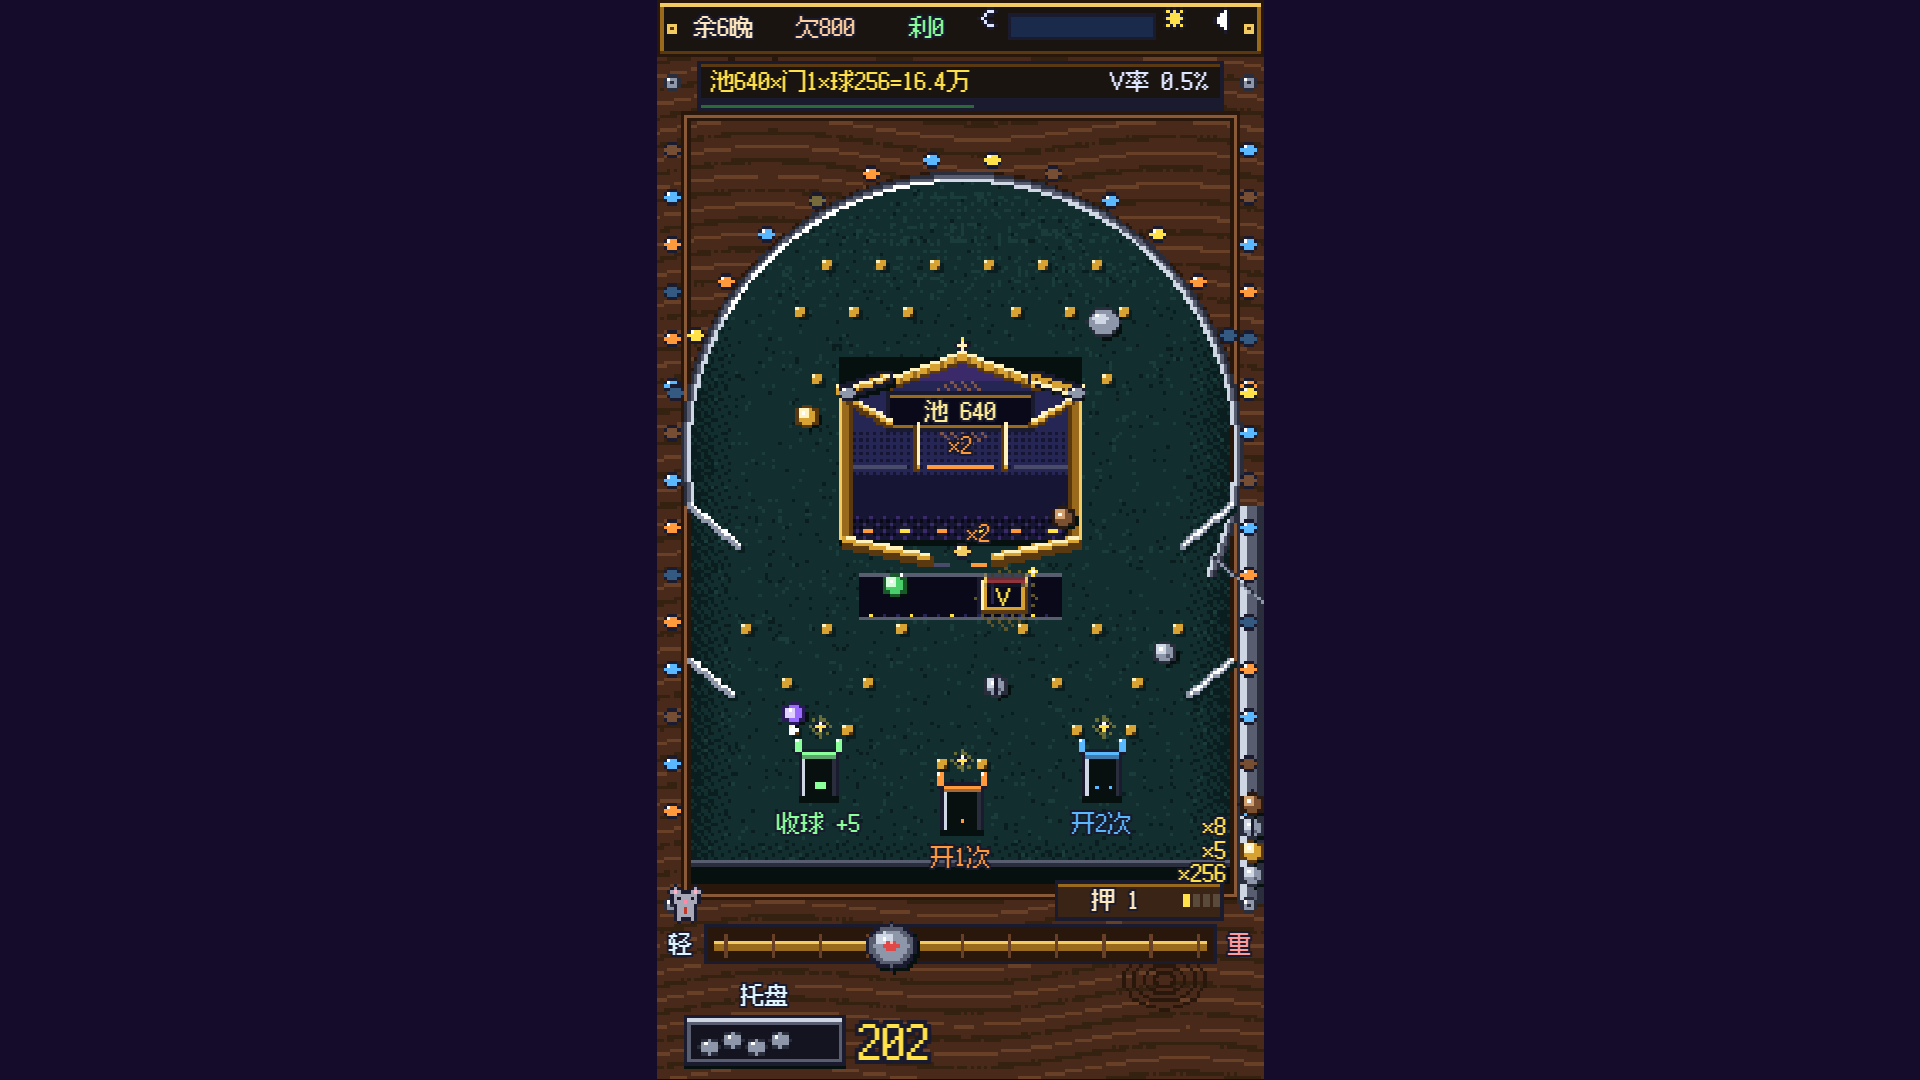
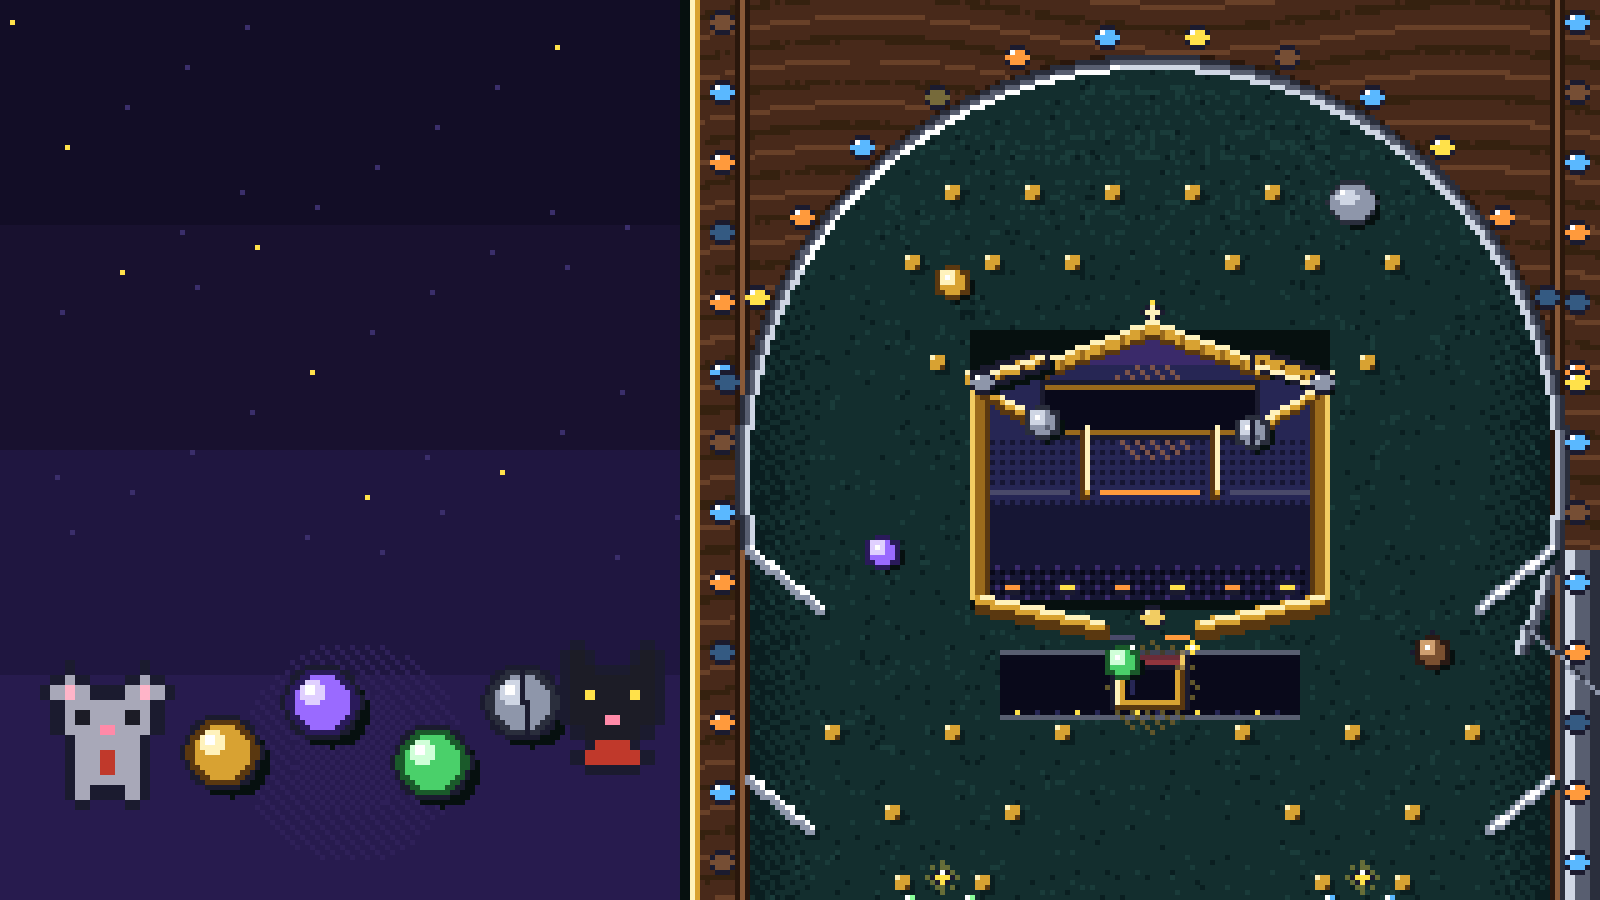
说明改成大白话、横版封面
- 每种球的说明重写成完整的大白话（不再用「赔」「得分」「进台」这类行话）
- 商店改成三行横卡，顶上写清楚「球身上的数字」和「好球会裂」两条规则
- 图鉴点开一种球看完整说明
- 横版封面 1600x900（#cover 带标题，#coverbase 无字底图），由游戏自己画

diff --git a/index.html b/index.html
@@ -11,13 +11,13 @@
 <meta property="og:description" content="配一袋会裂的钢珠，每颗球身上带一个数，翻倍球能把它滚到上千；进 V 杯就把池子乘上球的数全倒给你。六晚内还清黑猫的借据。">
 <meta property="og:url" content="https://grrreymane.github.io/HanePachinko/">
 <meta property="og:image" content="https://grrreymane.github.io/HanePachinko/cover.png">
-<meta property="og:image:width" content="1920">
-<meta property="og:image:height" content="1080">
+<meta property="og:image:width" content="1600">
+<meta property="og:image:height" content="900">
 <meta name="twitter:card" content="summary_large_image">
 <meta name="twitter:image" content="https://grrreymane.github.io/HanePachinko/cover.png">
 <!-- font:start (generated by _workflow/tools/subset_font.py; rerun after text changes) -->
-<link rel="preload" href="fonts/pixel.woff2?v=70d667a0" as="font" type="font/woff2" crossorigin>
-<style> @font-face { font-family: "Fusion Pixel"; src: url("fonts/pixel.woff2?v=70d667a0") format("woff2"); font-display: swap; }</style>
+<link rel="preload" href="fonts/pixel.woff2?v=e206db64" as="font" type="font/woff2" crossorigin>
+<style> @font-face { font-family: "Fusion Pixel"; src: url("fonts/pixel.woff2?v=e206db64") format("woff2"); font-display: swap; }</style>
 <!-- font:end -->
 <style>
   :root { --ground: #140c2a; color-scheme: dark; }
@@ -339,7 +339,7 @@ function achieve(id) {
 const tut = k => META.tut && META.tut[k], learn = k => { (META.tut = META.tut || {})[k] = 1; save('meta', META); };
 const betOpen = () => night >= 2 || stage > 1 || tut('bet');   // the stake dial is the second night's new thing
 const owned = () => PRIZES.reduce((n, z) => n + lvl(z.id), 0), prizeCost = z => Math.round(z.price[Math.min(lvl(z.id), z.max - 1)] * (1 + .5 * owned()) / 10) * 10;   // each prize taken makes every other one half again dearer
-let eqFlash = 0, tileFlash = { i: -1, t: 0 }, selPrize = -1;
+let eqFlash = 0, tileFlash = { i: -1, t: 0 }, selPrize = -1, dexSel = -1;
 const markSeen = k => { if (!META.seen) META.seen = {}; if (!META.seen[k]) { META.seen[k] = 1; save('meta', META); } };
 const EQ_MAX = 3; if (!Array.isArray(META.eq)) META.eq = PRIZES.filter(z => lvl(z.id)).map(z => z.id).slice(0, EQ_MAX);   // an old save equips what it owns
 const eqd = id => META.eq.includes(id);   // only equipped mechanisms are on the machine
@@ -413,7 +413,7 @@ const PAY_STAGE = 1, PAY_V = 5, PAY_FEVER = 4, FEVER_OPENS = 12, FEVER_CATCH = 6
 // every loan feeds it, it survives game over, and a ball in the V cup pours it all into the tray.
 const IOU_NIGHTS = 6, DEBT0 = 800, RATE = .04, LOAN0 = 100, LOAN_GROW = 1.5, LOANS_MAX = 3, POT0 = 30, POT_BASE = 30;
 const interestOf = d => Math.ceil(d * RATE);
-const BTN = { start: [40, 190, 100, 22], again: [40, 236, 100, 22], close: [118, 298, 50, 18], go: [50, 202, 80, 20], reroll: [10, 228, 36, 20], dawn: [50, 230, 80, 18], ok: [50, 206, 80, 20], buy: [50, 228, 80, 20], leave: [28, 236, 58, 20], next: [94, 236, 58, 20], counter: [10, 160, 52, 18], ach: [64, 160, 52, 18], dex: [118, 160, 52, 18], bet: [118, 261, 50, 12], toss: [134, 228, 36, 20], done: [50, 250, 80, 18] };
+const BTN = { start: [40, 190, 100, 22], again: [40, 236, 100, 22], close: [118, 298, 50, 18], go: [50, 202, 80, 20], reroll: [10, 252, 36, 18], dawn: [50, 230, 80, 18], ok: [50, 206, 80, 20], buy: [50, 252, 80, 18], leave: [28, 236, 58, 20], next: [94, 236, 58, 20], counter: [10, 160, 52, 18], ach: [64, 160, 52, 18], dex: [118, 160, 52, 18], bet: [118, 261, 50, 12], toss: [134, 252, 36, 18], done: [50, 250, 80, 18] };
 const FIRE_Y = 264;                                   // the handle: hold below this line to fire, finger x = strength
 
 // ---- static bodies
@@ -585,16 +585,16 @@ const LAUNCH = [], balls = [], wing = { open: false, t: 0, cd: 0, queue: 0, pend
 // 球袋: the run's build. Every shot draws the next ball from a shuffled pile of the bag; when fewer than five are left a fresh shuffle
 // of the whole bag goes underneath, so the tube can always show what is coming. A ball you add makes every other special ball rarer.
 const BALLS = {   // d1 the upside, d2 the price (drawn red); w: how much the black cat wants it
-  plain: { name: '普通球', d1: '什么都不加', d2: '' },
-  gold: { name: '金球', d1: '得分后 +1', d2: '掉沟裂两道', cost: 10, fragile: 2, w: 3 },
-  split: { name: '分裂球', d1: '一分二分四', d2: '分开数减半', cost: 8, w: 2 },
-  lucky: { name: '幸运球', d1: '进台吸向V', d2: '进口子不开', cost: 15, noWing: true, w: 4 },
-  gate: { name: '翻倍球', d1: '最大的球×2', d2: '自己不赔', cost: 12, pm: 0, w: 5 },
-  big: { name: '大球', d1: '赢的 ×3', d2: '进不了口子', cost: 10, pm: 3, w: 3 },
-  wreck: { name: '破坏球', d1: '撞碎钉子', d2: '撞钉自己裂', cost: 10, w: 2 },
-  bomb: { name: '爆池球', d1: '掉沟漏池5%', d2: '进口子不赔', cost: 6, pm: 0, noWing: true, w: 1 },
-  wing: { name: '开门球', d1: '羽根开3次', d2: '自己不赔', cost: 8, pm: 0, w: 2 },
-  lead: { name: '铅球', d1: '庄家塞的', d2: '什么都不赔', pm: 0, noWing: true },
+  plain: { name: '普通球', d1: '最普通的钢珠，进洞给你 1 份球', d2: '' },
+  gold: { name: '金球', d1: '每进一次洞，它身上的数字 +1，越打越值钱', d2: '掉进最下面的水沟时，一次裂两道', cost: 10, fragile: 2, w: 3 },
+  split: { name: '分裂球', d1: '碰到钉子会分成两颗，再碰再分，最多四颗', d2: '每分一次，每颗身上的数字减半', cost: 8, w: 2 },
+  lucky: { name: '幸运球', d1: '掉进台子后被 V 杯吸过去，杯盖也会为它打开', d2: '进下面的口子时，不会打开羽根', cost: 15, noWing: true, w: 4 },
+  gate: { name: '翻倍球', d1: '每进一次洞，把袋里数字最大的那颗球翻倍', d2: '它自己进洞时不给你球', cost: 12, pm: 0, w: 5 },
+  big: { name: '大球', d1: '进洞给的球是普通球的 3 倍', d2: '个头太大，塞不进下面的三个口子', cost: 10, pm: 3, w: 3 },
+  wreck: { name: '破坏球', d1: '撞到的钉子会碎掉，红钉和死穴碎了就不回来', d2: '每撞碎一根钉，自己裂一道', cost: 10, w: 2 },
+  bomb: { name: '爆池球', d1: '掉进水沟时炸开，把池子里 5% 的球分给你', d2: '进口子时不给球，也不打开羽根', cost: 6, pm: 0, noWing: true, w: 1 },
+  wing: { name: '开门球', d1: '进任何口子，羽根都连开 3 次', d2: '它自己进洞时不给你球', cost: 8, pm: 0, w: 2 },
+  lead: { name: '铅球', d1: '黑猫偷偷塞进你袋子的废球', d2: '打出去不管进哪都不给球，只占一个位置', pm: 0, noWing: true },
 };
 const FIELDS = {   // one per night from the third: what it does to which balls
   calm: { name: '平常夜', d: '没什么特别', c: '#dfe6ff' },
@@ -765,7 +765,13 @@ Events.on(engine, 'collisionStart', ev => {
 // ---- input
 function onPress(p) {
   if (state === 'title') { if (inR(p, BTN.start)) { SFX.click(); resetRun(); } else if (inR(p, BTN.counter)) { SFX.click(); go('counter'); } else if (inR(p, BTN.ach)) { SFX.click(); go('ach'); } else if (inR(p, BTN.dex)) { SFX.click(); go('dex'); } return; }
-  if (state === 'ach' || state === 'dex') { if (inR(p, BTN.done)) { SFX.click(); go('title'); } return; }
+  if (state === 'dex') {   // tap a card to read it, tap again anywhere to close
+    if (dexSel >= 0) { dexSel = -1; SFX.click(); return; }
+    if (inR(p, BTN.done)) { SFX.click(); go('title'); return; }
+    Object.keys(BALLS).forEach((k, i) => { const x = 10 + (i % 2) * 82, y = 56 + Math.floor(i / 2) * 38; if (p.x >= x && p.x <= x + 78 && p.y >= y && p.y <= y + 35 && (k === 'plain' || (META.seen && META.seen[k]))) { dexSel = i; SFX.click(); } });
+    return;
+  }
+  if (state === 'ach') { if (inR(p, BTN.done)) { SFX.click(); go('title'); } return; }
   if (state === 'counter') { if (inR(p, BTN.done)) { SFX.click(); go('title'); return; } for (let i = 0; i < EQ_MAX; i++) { const [x, y] = sockXY(i); if (Math.abs(p.x - x) < 13 && Math.abs(p.y - y) < 13 && META.eq[i]) { selPrize = PRIZES.findIndex(z => z.id === META.eq[i]); toggleEq(PRIZES[selPrize]); return; } }   // tap a socket: take it off
     PRIZES.forEach((z, i) => { const [x, y] = tileXY(i); if (Math.abs(p.x - x) < 14 && Math.abs(p.y - y) < 12) { if (!lvl(z.id) && selPrize !== i) { selPrize = i; SFX.click(); } else { selPrize = i; toggleEq(z); } } }); return; }   // not owned: the first tap previews it, the second buys
   if (state === 'over') { if (inR(p, BTN.again)) { SFX.click(); resetRun(); } return; }
@@ -813,7 +819,7 @@ window.addEventListener('keydown', e => {
   if (state === 'play' && betOpen()) { if (e.code === 'ArrowUp') cycleBet(1); if (e.code === 'ArrowDown') cycleBet(-1); }
 });
 window.addEventListener('keyup', e => { if (e.code === 'Space') firing = false; });
-function cardRect(i) { return [14 + i * 52, 114, 48, 100]; }
+function cardRect(i) { return [10, 84 + i * 53, 160, 51]; }   // the shop: three wide rows
 function applyPick(p) {   // one ball a night: it replaces a plain ball, or one you pick when none is left
   const i = picks.indexOf(p), r = cardRect(i);
   if (tray < costOf(p)) { SFX.fail(); pop('球不够', r[0] + r[2] / 2, r[1] + 50, '#ff6a6a', 8, .8); return; }
@@ -998,16 +1004,16 @@ function ballK(x, y, k, cr) {   // a ball drawn by kind: steel, steel with a cra
   if (k === 'lucky' && T % .5 < .25) { g.fillStyle = '#ffffff'; g.fillRect(R(x) + 2, R(y) - 3, 1, 1); }
   cracks(x, y, cr);
 }
-function bigBall(x, y, k, cr, v) {   // the shop card's ball
+function bigBall(x, y, k, cr, v, bare) {   // bare: no corner badge (the shop rows put text right next to the ball)   // the shop card's ball
   const c = BCOL[k] || [PAL.chrome[0], PAL.chrome[2], PAL.chrome[3]];
   disc(x + 2, y + 2, 7, '#06100f'); disc(x, y, 7.6, OUT); disc(x, y, 6.6, c[0]); disc(x, y, 5.3, c[1]); disc(x - 2, y - 2, 2.4, c[2]); if (k !== 'lead') { g.fillStyle = '#ffffff'; g.fillRect(R(x) - 3, R(y) - 3, 2, 2); }
   if (k === 'split') pxLine(x, y - 6, x + 1, y + 6, 1, OUT);
   if (k === 'bomb') { pxLine(x + 3, y - 6, x + 5, y - 10, 1, '#c9b37a'); g.fillStyle = T % .3 < .15 ? '#ffe14a' : '#ff6a3c'; g.fillRect(R(x) + 5, R(y) - 11, 2, 2); }
-  if (k === 'gate') txt('倍', x + 11, y - 8, 7, '#ffe14a', 'center', OUT);
+  if (k === 'gate' && !bare) txt('倍', x + 11, y - 8, 7, '#ffe14a', 'center', OUT);
   if (k === 'wing') wingIcon(x + 6, y + 8, 8, true);
   if (k === 'lucky') txt('V', x, y + 1, 7, '#ffffff', 'center', OUT);
   if (cr) { pxLine(x - 4, y - 5, x - 1, y, 1, OUT); if (cr >= 3) pxLine(x + 1, y - 2, x + 5, y + 3, 1, OUT); if (cr >= 6) pxLine(x - 5, y + 2, x - 1, y + 5, 1, '#ff5a5a'); }   // cracks
-  if (k === 'big') txt('大', x + 10, y - 8, 7, '#ffe14a', 'center', OUT);
+  if (k === 'big' && !bare) txt('大', x + 10, y - 8, 7, '#ffe14a', 'center', OUT);
   if (k === 'wreck') { g.fillStyle = OUT; for (const [dx, dy] of [[0, -9], [9, 0], [0, 8], [-9, 0]]) g.fillRect(R(x + dx) - 1, R(y + dy) - 1, 3, 3); }   // spikes
   if ((v || 1) > 1) txt('×' + fmt(v), x, y + 11, 7, '#c0392b', 'center', null);
 }
@@ -1162,6 +1168,17 @@ function drawHandle(active) {
   disc(kx + 1, ky + 1, 7, '#06100f'); disc(kx, ky, 7, OUT); disc(kx, ky, 6, active ? PAL.brass[2] : PAL.chrome[1]); disc(kx, ky, 4.6, active ? PAL.brass[3] : PAL.chrome[2]); disc(kx - 1.6, ky - 1.6, 2, active ? PAL.brass[4] : PAL.chrome[3]); g.fillStyle = '#ffffff'; g.fillRect(kx - 2, ky - 2, 1, 1); disc(kx, ky, 1.6, '#e04848'); g.fillStyle = '#ffb4b4'; g.fillRect(kx, ky - 1, 1, 1);
   txt('轻', 7, 280, 7, '#dff6ff'); txt('重', 173, 280, 7, '#ff9a9a');
 }
+function wrapTxt(t, x, y, w, size, col, lh) {   // left-aligned text wrapped to a width (a CJK character counts 1, ASCII about half); returns the line count
+  const lines = []; let cur = '', u = 0; const max = w / (size + 1);   // a glyph is about size + 1 px wide
+  for (const ch of t) { const cu = ch.charCodeAt(0) > 255 ? 1 : .55; if (u + cu > max && cur) { lines.push(cur); cur = ''; u = 0; } cur += ch; u += cu; }
+  if (cur) lines.push(cur); lines.forEach((l, i) => txt(l, x, y + i * lh, size, col, 'left', null)); return lines.length;
+}
+function cardRow(c, r) {   // a shop row: the ball, its name and price, what it does and what it costs you
+  const [x, y, w, h] = r; panel(x, y, w, h); bigBall(x + 14, y + h / 2, c.ball, 0, 1, true);
+  txt(c.name, x + 29, y + 9, 8, '#c0392b', 'left', null); txt(costOf(c) + ' 球', x + w - 4, y + 9, 8, tray >= costOf(c) ? '#2a6a3a' : '#c0392b', 'right', null);
+  const n = wrapTxt(c.d1, x + 29, y + 20, w - 32, 7, '#5a3a24', 9); if (c.d2) wrapTxt(c.d2, x + 29, y + 20 + n * 9, w - 32, 7, '#c0392b', 9);
+  if (tray < costOf(c)) { g.globalAlpha = .4; g.fillStyle = '#f6e3b4'; g.fillRect(x + 2, y + 2, w - 4, h - 4); g.globalAlpha = 1; }
+}
 function card(c, r) {
   const [x, y, w, h] = r; panel(x, y, w, h);
   txt(c.name, x + w / 2, y + 11, c.name.length > 5 ? 8 : 9, c.item ? '#2a5a9a' : c.up ? '#6a3a9a' : '#c0392b', 'center', null);
@@ -1263,10 +1280,11 @@ function render() {
     if (houseMark && st < 1.6) { g.globalAlpha = .5 + .5 * Math.sin(T * 10); disc(houseMark.x, houseMark.y, 7, '#ff6a6a'); g.globalAlpha = 1; }
     txt(houseMsg, 90, 280, 9, '#ff9a9a');
   } else if (state === 'pick') {
-    panel(6, 92, 168, 164); txt(buysTonight ? '再拿一张要 ×' + (1 + buysTonight) + ' 价' : '挑球放进袋子', 90, 101, 9, buysTonight ? '#c0392b' : '#5a3a24', 'center', null); { const f = FIELDS[nextField]; txt(nextField === 'calm' ? '明晚：平常夜' : '明晚 ' + f.name + '：' + f.d, 90, 110, 7, '#6a3a9a', 'center', null); } bagStrip(90, 221);
-    picks.forEach((c, i) => card(c, cardRect(i))); button(BTN.buy, '开打'); button(BTN.reroll, '重摇 ' + rerollCost()); button(BTN.toss, '洗铅 ' + tossCost());
+    panel(6, 40, 168, 234); txt(buysTonight ? '再拿一张要 ×' + (1 + buysTonight) + ' 价' : '挑球放进袋子', 90, 49, 9, buysTonight ? '#c0392b' : '#5a3a24', 'center', null); { const f = FIELDS[nextField]; txt(nextField === 'calm' ? '明晚：平常夜' : '明晚 ' + f.name + '：' + f.d, 90, 59, 7, '#6a3a9a', 'center', null); } txt('球身上的数字越大，进洞给的球越多', 90, 69, 7, '#5a3a24', 'center', null);
+    txt('好球掉进水沟会裂，裂满 ' + LIFE + ' 道变回普通球', 90, 78, 7, '#8a6a4a', 'center', null); bagStrip(90, 245);
+    picks.forEach((c, i) => cardRow(c, cardRect(i))); button(BTN.buy, '开打'); button(BTN.reroll, '重摇 ' + rerollCost()); button(BTN.toss, '洗铅 ' + tossCost());
   } else if (state === 'discard') {
-    panel(6, 92, 168, 164); txt('袋子满了：点一颗换成' + (swapPick ? swapPick.name : ''), 90, 103, 8, '#5a3a24', 'center', null);
+    panel(6, 92, 168, 180); txt('袋子满了：点一颗换成' + (swapPick ? swapPick.name : ''), 90, 103, 8, '#5a3a24', 'center', null);
     BAG.forEach((o, i) => { const [x, y] = bagXY(i); bigBall(x, y, o.k, o.cr, o.v); }); button(BTN.buy, '算了');
   } else if (state === 'swap') {
     for (const m of PLACED) { g.fillStyle = '#ff9a3c'; g.globalAlpha = .55 + .35 * Math.sin(T * 6); g.fillRect(m.x - 10, m.y - 10, 20, 1); g.fillRect(m.x - 10, m.y + 9, 20, 1); g.fillRect(m.x - 10, m.y - 10, 1, 20); g.fillRect(m.x + 9, m.y - 10, 1, 20); g.globalAlpha = 1; }
@@ -1311,14 +1329,22 @@ function render() {
     button(BTN.done, '走了');
   } else if (state === 'dex') {   // the ball dex: a card per kind, a silhouette until it has been seen
     panel(6, 40, 168, 236); txt('图鉴', 90, 49, 9, '#c0392b', 'center', null);
-    Object.keys(BALLS).forEach((k, i) => {
+    if (dexSel < 0) Object.keys(BALLS).forEach((k, i) => {
       const x = 10 + (i % 2) * 82, y = 56 + Math.floor(i / 2) * 38, b = BALLS[k], known = k === 'plain' || (META.seen && META.seen[k]);
       g.fillStyle = OUT; g.fillRect(x, y, 78, 35); g.fillStyle = known ? '#f6e3b4' : '#c9b38a'; g.fillRect(x + 1, y + 1, 76, 33);
       if (known) bigBall(x + 13, y + 16, k, 0); else { disc(x + 13, y + 16, 7.6, OUT); disc(x + 13, y + 16, 6.6, '#5a4a3a'); txt('?', x + 13, y + 16, 9, '#c9b38a', 'center', null); }
       txt(known ? b.name : '？？？', x + 30, y + 8, 8, known ? '#c0392b' : '#8a6a4a', 'left', null);
-      if (known) { txt(b.d1 || '', x + 30, y + 19, 6, '#5a3a24', 'left', null); txt(b.d2 || '', x + 30, y + 28, 6, '#c0392b', 'left', null); const n = META.fired && META.fired[k]; if (n) txt('×' + fmt(n), x + 75, y + 8, 6, '#8a6a4a', 'right', null); }
+      if (known) { const n = META.fired && META.fired[k]; txt(n ? '打过 ' + fmt(n) + ' 颗' : '还没打过', x + 30, y + 20, 6, '#8a6a4a', 'left', null); txt('点开看', x + 30, y + 28, 6, '#6a3a9a', 'left', null); }
     });
     button(BTN.done, '走了');
+    if (state === 'dex' && dexSel >= 0) {   // one ball, in full
+      const k = Object.keys(BALLS)[dexSel], b = BALLS[k], n = META.fired && META.fired[k];
+      panel(14, 78, 152, 150);
+      bigBall(90, 100, k, 0); txt(b.name, 90, 120, 10, '#c0392b', 'center', null);
+      txt('好处', 22, 134, 7, '#2a6a3a', 'left', null); const a = wrapTxt(b.d1 || '', 22, 144, 136, 7, '#5a3a24', 10);
+      if (b.d2) { txt('代价', 22, 150 + a * 10, 7, '#c0392b', 'left', null); wrapTxt(b.d2, 22, 160 + a * 10, 136, 7, '#c0392b', 10); }
+      txt((n ? '打过 ' + fmt(n) + ' 颗' : '还没打过') + '　点任意处关上', 90, 220, 6, '#8a6a4a', 'center', null);
+    }
   } else if (state === 'over') {
     panel(20, 120, 140, 150);
     txt(payMsg === '到期了' ? '到期，被黑猫带走了' : '被黑猫带走了', 90, 146, 13, '#c0392b', 'center', null); txt('第 ' + stage + ' 张借据，欠 ' + fmt(debt) + ' 没还上', 90, 172, 9, '#5a3a24', 'center', null);
@@ -1386,15 +1412,30 @@ function showShare(cvs, msg) {
   el.appendChild(img); el.appendChild(tip); el.appendChild(row);
   document.body.appendChild(el); shareEl = el;
 }
-// 16:9 share image: open index.html#cover, then tools/shot.py saves it as cover.png (1920x1080)
+// 16:9 store cover (1600x900, the platform's size): index.html#cover has the title, #coverbase has no text at all (the platform
+// lays each language's name over it). The right side is the real board, rendered once; the left side is the title, the mouse, the cat
+// and a few numbered balls. tools/shot.py saves it: --hash "#cover" --size 1600x900 --out 1gp-kit/cover.png
 function renderCover() {
-  const CW = 320, CH = 180, S = 6, c = mk(CW, CH); g = c.getContext('2d'); g.imageSmoothingEnabled = false;
-  ['#2a1e5a', '#3a2a72', '#4e3a8a', '#6a4aa0'].forEach((col, i) => { g.fillStyle = col; g.fillRect(0, i * 45, CW, 45); });
-  g.drawImage(I.cat.r, 60, 110, 60, 54);
+  const bare = location.hash === '#coverbase', CW = 320, CH = 180, S = 5;
+  resetRun(); if (state === 'letter') afterLetter(); startNight(); fieldBanner = 0; pot = 640;
+  [['gold', 50, 96, 5], ['big', 130, 80, 2], ['lucky', 84, 172, 1], ['split', 110, 126, 8], ['gate', 36, 150, 1], ['wreck', 146, 170, 1], ['plain', 68, 124, 256]].forEach(([k, x, y, v]) => { const b = spawnBall(x, y, 0, 0, 1); b.kind = k; b.v = v; });
+  setLid(false); render();   // the real board into the pixel layer
+  const c = mk(CW, CH), lowCv = low; g = c.getContext('2d'); g.imageSmoothingEnabled = false;
+  ['#120d26', '#18112f', '#1f1640', '#271b4e'].forEach((col, i) => { g.fillStyle = col; g.fillRect(0, i * 45, CW, 45); });
+  for (let i = 0; i < 40; i++) { g.fillStyle = i % 5 ? '#3a2e6a' : '#ffe14a'; g.fillRect((i * 37) % 136 + 2, (i * 53) % 110 + 4, 1, 1); }   // stars
+  g.drawImage(lowCv, 0, 40, 180, 180, 140, 0, 180, 180);   // the machine: dome, roof, V cup
+  g.fillStyle = '#06100f'; g.fillRect(136, 0, 4, CH); g.fillStyle = PAL.brass[2]; g.fillRect(138, 0, 2, CH); g.fillStyle = PAL.brass[4]; g.fillRect(138, 0, 1, CH);
+  glow(70, 150, 22, '#2e2058');
+  bigBall(44, 150, 'gold', 0, 1, true); bigBall(64, 140, 'gate', 0, 1, true); bigBall(86, 152, 'lucky', 0, 1, true); bigBall(104, 140, 'split', 0, 1, true);
+  g.drawImage(I.mouse, 8, 132, 27, 30); g.drawImage(I.cat, 112, 128, 21, 27);   // the mouse with its bag of balls, the black cat waiting
+  TQ.length = 0;   // badges and board labels are queued text: not on the cover
   const big = mk(CW * S, CH * S), bx = big.getContext('2d'); bx.imageSmoothingEnabled = false; bx.drawImage(c, 0, 0, CW * S, CH * S);
-  bx.font = '120px ' + FONT; bx.textAlign = 'center'; bx.fillStyle = '#ffe14a'; bx.fillText('羽根柏青哥', 1150, 520);
-  bx.font = '48px ' + FONT; bx.fillStyle = '#dff6ff'; bx.fillText('Hane Pachinko', 1150, 620);
-  document.body.innerHTML = ''; big.style.cssText = 'position:fixed;left:0;top:0;width:1920px;height:1080px'; document.body.appendChild(big);
+  if (!bare) {
+    const t = (str, x, y, px, col) => { bx.font = px + 'px ' + FONT; bx.textAlign = 'center'; bx.lineJoin = 'round'; bx.lineWidth = Math.max(6, px / 7); bx.strokeStyle = '#0a0614'; bx.strokeText(str, x, y); bx.fillStyle = col; bx.fillText(str, x, y); };
+    t('羽根柏青哥', 70 * S, 46 * S, 96, '#ffe14a'); t('配一袋会裂的钢珠', 70 * S, 70 * S, 40, '#dff6ff'); t('把一颗滚到上千倍', 70 * S, 82 * S, 40, '#dff6ff');
+    t('×5', 44 * S, 136 * S, 30, '#ffe14a'); t('×256', 104 * S, 126 * S, 30, '#ffe14a');
+  }
+  document.body.innerHTML = ''; big.style.cssText = 'position:fixed;left:0;top:0;width:' + CW * S + 'px;height:' + CH * S + 'px'; document.body.appendChild(big);
   document.title = 'COVER READY';
 }
 
@@ -1446,7 +1487,7 @@ try { if (document.fonts && document.fonts.load) document.fonts.load('12px "Fusi
 // ============================================================ boot
 // Test hook (see tools/make_test_page.py): _test.html replaces the line below to expose eval + bots.
 /*TEST_HOOK*/
-if (location.hash === '#cover') { (document.fonts ? document.fonts.ready : Promise.resolve()).then(renderCover); window.__gameBooted = true; return; }
+if (location.hash === '#cover' || location.hash === '#coverbase') { (document.fonts ? document.fonts.ready : Promise.resolve()).then(renderCover); window.__gameBooted = true; return; }
 let last = performance.now(), frameErr = 0;
 function frame(now) {
   const dt = Math.min(.05, (now - last) / 1000); last = now;
